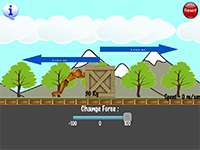
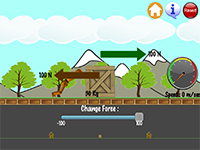
Visual improvements of ChallengeMenuScene

diff --git a/Main/Class8/EighthStdScience/Classes/Challenge.cpp b/Main/Class8/EighthStdScience/Classes/Challenge.cpp
@@ -612,8 +612,8 @@ bool Challenge3::init(bool showInfo)
             Vec2(origin.x + visibleSize.width/8 , origin.y + visibleSize.height/4),
             Vec2(origin.x + visibleSize.width/8 , origin.y + visibleSize.height/6), selectCB1);
     auto surfSelectionMenu2 = _menuLayer->selectSurfaceFriction("Surface 2 Friction :", 
-            Vec2(origin.x + 6*visibleSize.width/8 - 5 , origin.y + visibleSize.height/4),
-            Vec2(origin.x + 7*visibleSize.width/8 , origin.y + visibleSize.height/6), selectCB2);
+            Vec2(origin.x + 6 * visibleSize.width/8 - 5 , origin.y + visibleSize.height/4),
+            Vec2(origin.x + 7 * visibleSize.width/8 , origin.y + visibleSize.height/6), selectCB2);
 
     // play button
     auto play = MenuItemImage::create("play.png",

diff --git a/Main/Class8/EighthStdScience/Classes/ChallengeMenuScene.cpp b/Main/Class8/EighthStdScience/Classes/ChallengeMenuScene.cpp
@@ -89,8 +89,8 @@ bool ChallengeMenu::init()
     };
 
     addChallenge("chal_1.png", 1, "To move the box by applying force. Notice the behavior of friction as you apply force");
-    addChallenge("chl.png", 2, "dummy text");
-    addChallenge("chl.png", 3, "Moving a box from point A to B in given time. Selection of surfaces is key for completing this challenge." );
+    addChallenge("chal_2.png", 2, "dummy text");
+    addChallenge("chal_3.png", 3, "Moving a box from point A to B in given time. Selection of surfaces is key for completing this challenge." );
 
     menu->setPosition(Vec2::ZERO);
     scrollContainer->addChild(menu);
